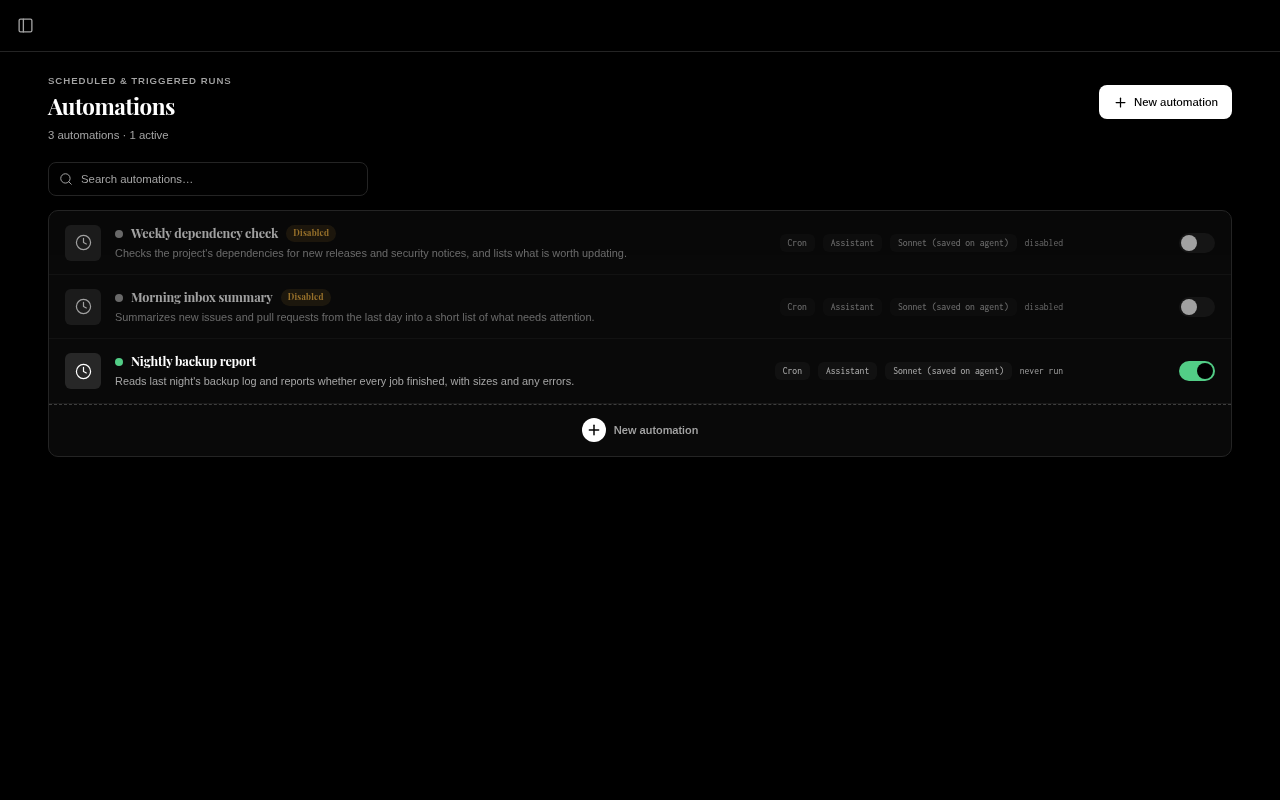
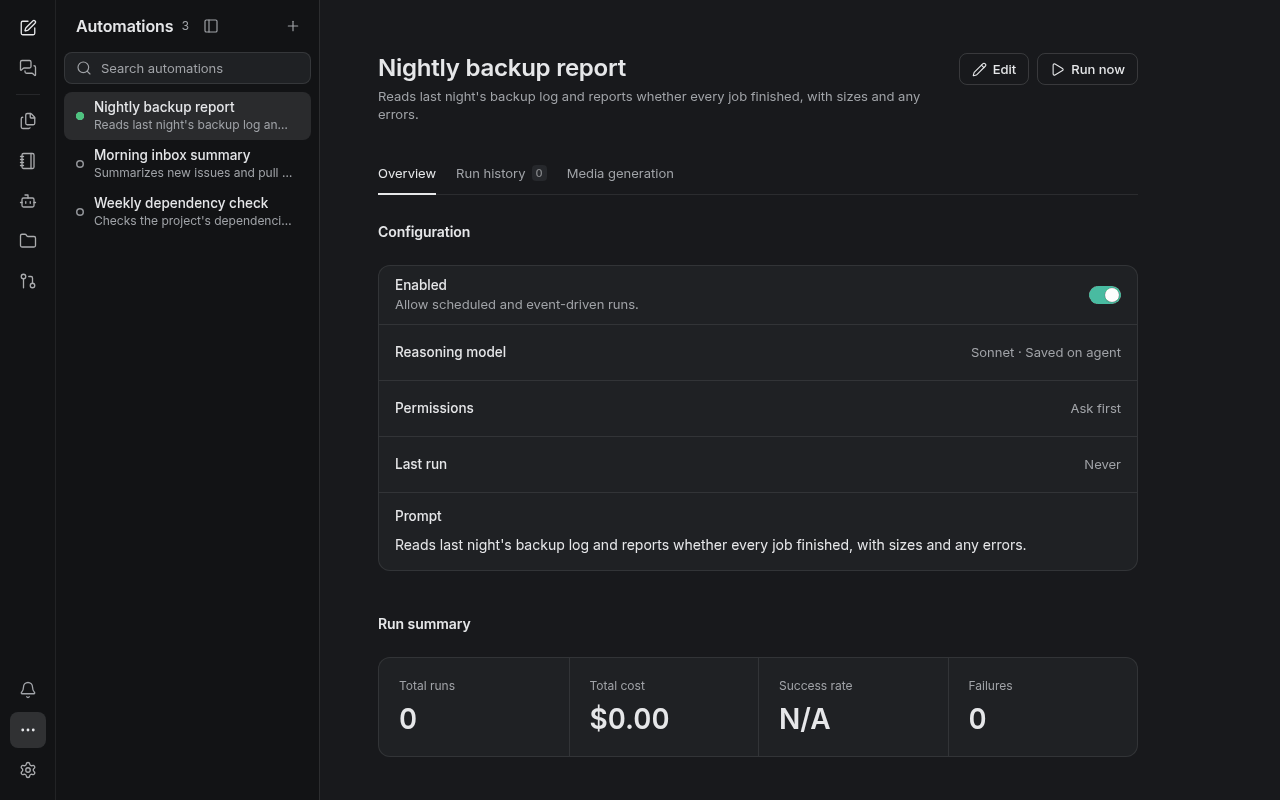
README: add new providers, correct how Claude runs, refresh screenshots (#1286)
* README: add new providers and correct how Claude runs

Add Kimi, MiniMax and OpenCode, Claude on Bedrock, Vertex and Foundry,
Grok Voice and subscription voice, and OpenAI/xAI/SuperGrok media.
Claude sessions now use Fluid's compaction by default. The app also runs
Anthropic API keys through Claude Code, so the old "use an API key for
Claude fully inside Fluid" advice and table row were wrong.

* Refresh README screenshots for the current UI

Recapture the three README images from a disposable dev instance with
neutral demo data, after the UI redesign of 2026-11-04 to 11-07. All are
real renders of the current UI, at the same sizes and in dark theme.

* README: qualify usage meters and Claude Code limits

Kimi, MiniMax and OpenCode plans have no usage meters. Claude Code's
summary also covers an unreachable compaction route or too little
reclaimed, and skill writing on Claude needs a ChatGPT or SuperGrok
learner account.

* README: name every plan that can run Claude skill learning

Kimi, MiniMax and OpenCode plan keys also qualify as the learner
account for Claude sessions, not only ChatGPT and SuperGrok.

---------

diff --git a/README.md b/README.md
@@ -12,11 +12,11 @@ In development since January 2026 and open-sourced in October 2026.
 
 ## Why AI Shuffle
 
-- **Use the AI you already pay for.** Claude, ChatGPT or SuperGrok subscriptions, or API keys for Claude, OpenAI, OpenRouter, xAI and local models. Your provider bills you directly; we add no markup and never see your prompts.
+- **Use the AI you already pay for.** Subscriptions for Claude, ChatGPT, SuperGrok, Kimi Code, MiniMax M Plan or OpenCode Go, or API keys for Claude, OpenAI, OpenRouter, xAI, Kimi, MiniMax, OpenCode and local models. Claude also runs through Amazon Bedrock, Google Vertex AI or Microsoft Foundry. Your provider bills you directly; we add no markup and never see your prompts.
 - **Runs on your hardware.** Code, chats and keys stay on your machines. No account needed.
 - **Mix models freely.** Any signed-in model can hand work to any other. A Claude session can delegate to a ChatGPT model, or the other way round.
 - **All your machines, one app.** Connect your desktop, laptop and server, move chats between them, and check in from the Android app.
-- **All your usage in one place.** See what's left on every plan, with reset times, without visiting each provider's site.
+- **All your usage in one place.** See what's left on your Claude, ChatGPT and SuperGrok plans, with reset times, without visiting each provider's site. Kimi, MiniMax and OpenCode plans don't have usage meters yet.
 - **A smarter harness.** Every session runs on [Fluid](#fluid-our-own-agent-harness), our own agent engine: compaction that forgets nothing, memory that learns, and batched tool calls.
 - **Free and open source.** AGPL-3.0, with no license key, trial or usage cap.
 
@@ -49,9 +49,9 @@ Next, follow [first run](docs/content/getting-started/first-run.md) to connect y
 - **Work across machines.** A [worker network](docs/content/features/worker-network.md) shares settings, keys and chats. Move a chat mid-task, or let an agent start and run chats on your other machines for you.
 - **Automate.** [Automations](docs/content/features/automations.md) run agents on a schedule, a timer, a webhook or an incoming message, with spending limits and approval steps.
 - **Connect your apps.** [Connectors](docs/content/connectors/_index.md) for Telegram, Discord, Slack, WhatsApp, Signal, iMessage, Gmail, Home Assistant, Philips Hue, Spotify and more, plus any MCP server and [plugins](docs/content/features/plugins.md).
-- **Talk and create.** Live [voice calls](docs/content/features/voice.md) on OpenAI's realtime voice models, dictation, and images, video and audio from fal.ai's model library. Higgsfield support is coming soon.
+- **Talk and create.** Live [voice calls](docs/content/features/voice.md) on OpenAI's GPT Live or xAI's Grok Voice, with an API key or your ChatGPT or SuperGrok subscription. Dictation. Images, video and audio from fal.ai's model library, plus images from your OpenAI or xAI account and video from SuperGrok. Higgsfield support is coming soon.
 - **Stay in control.** Choose what each agent may do, approve risky steps, and block commands with [hooks](docs/content/features/hooks.md).
-- **And more.** [Terminals](docs/content/features/terminals.md) beside the chat, [notes](docs/content/features/notes.md), and a [REST API](docs/content/api-reference/_index.md).
+- **And more.** [Terminals](docs/content/features/terminals.md) beside the chat, a browser agents can drive while you watch, computer use on the desktop app, code review with line comments you send back to the agent, [notes](docs/content/features/notes.md), and a [REST API](docs/content/api-reference/_index.md).
 
 ![Phone worker list in the mobile app](docs/images/readme/phone-workers.png)
 
@@ -71,19 +71,20 @@ Fluid is the engine that runs your agents: it talks to the model, runs tools, as
 
 **Why not just wrap each provider's agent?** Claude Code, Codex and the rest each have their own tools, permissions, memory and limits. Wrapping them would mean features that differ by provider and bugs we can't fix. With Fluid, an agent works the same way whichever model you pick.
 
-**The exception: Claude subscriptions.** Anthropic only allows Claude Pro and Max subscriptions through its own Claude Code, so for those Fluid drives the official Claude Code CLI and never reuses your sign-in elsewhere. Those sessions keep AI Shuffle's tools, connectors and memory, but compaction and tool calling are Claude Code's own. For Claude fully inside Fluid, use an Anthropic API key.
+**The exception: Claude.** Anthropic only allows Claude Pro and Max subscriptions through its own Claude Code, so Fluid drives the official Claude Code CLI for those and never reuses your sign-in elsewhere. By default the app runs Claude on an Anthropic API key, Amazon Bedrock, Google Vertex AI or Microsoft Foundry the same way. These sessions keep AI Shuffle's tools, connectors and memory, and they use Fluid's compaction by default (Claude Code 2.1.287 or newer; switch it off with **Smarter compaction** in Settings). Claude Code's own summary only steps in when an automatic compaction can't free enough room or can't reach Fluid. Turning repeated work into skills needs a ChatGPT, SuperGrok, Kimi, MiniMax or OpenCode plan connected to do the learning. Tool calling stays Claude Code's own, so batched tool calls are not available there. For Claude models fully inside Fluid, reach them through OpenRouter or a custom gateway, or run the standalone [`fluid`](fluid/README.md) command line with an Anthropic API key.
 
 <details>
 <summary>How each provider runs</summary>
 
 | Provider | How Fluid runs it | Sign-in |
 | --- | --- | --- |
-| Anthropic (Claude) API | Fluid's own loop | API key |
 | OpenAI | Fluid's own loop | API key or ChatGPT subscription |
 | xAI | Fluid's own loop | API key or SuperGrok subscription |
-| OpenRouter and OpenAI-compatible gateways | Fluid's own loop | API key |
+| Kimi, MiniMax and OpenCode | Fluid's own loop | API key, or a Kimi Code, MiniMax M Plan or OpenCode Go plan key |
+| OpenRouter and custom gateways (OpenAI- or Anthropic-compatible) | Fluid's own loop | API key |
 | Local models (llama.cpp, Ollama and similar) | Fluid's own loop | Optional key |
 | Claude Pro or Max subscription | Official Claude Code CLI, driven by Fluid | Claude Code's own sign-in |
+| Claude on an Anthropic API key, Amazon Bedrock, Google Vertex AI, Microsoft Foundry or an LLM gateway set up under Claude | Official Claude Code CLI, driven by Fluid | Key or cloud credentials saved in Settings |
 
 </details>
 
